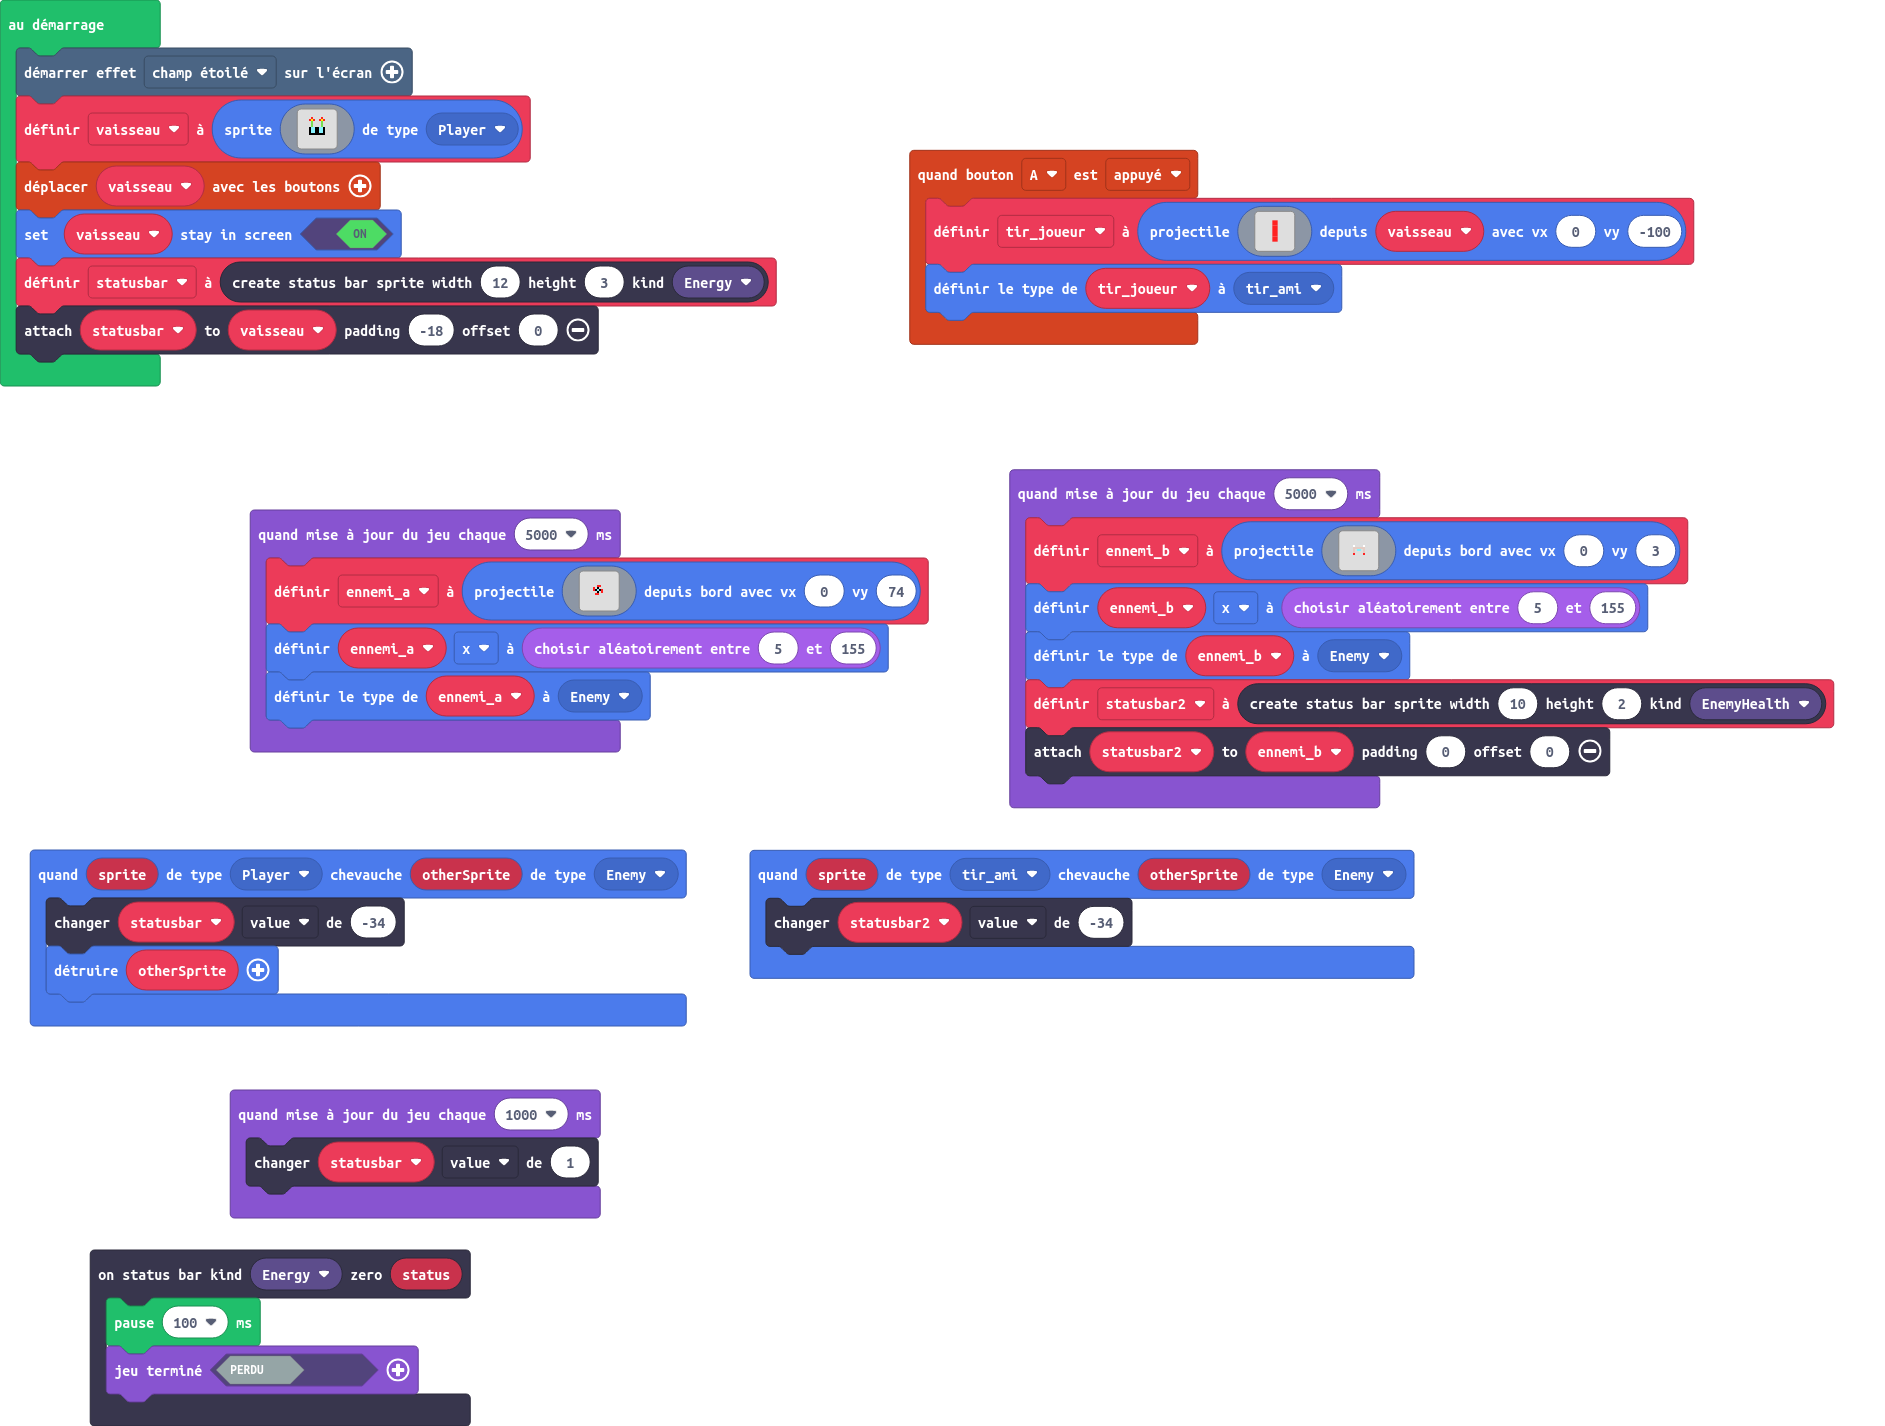
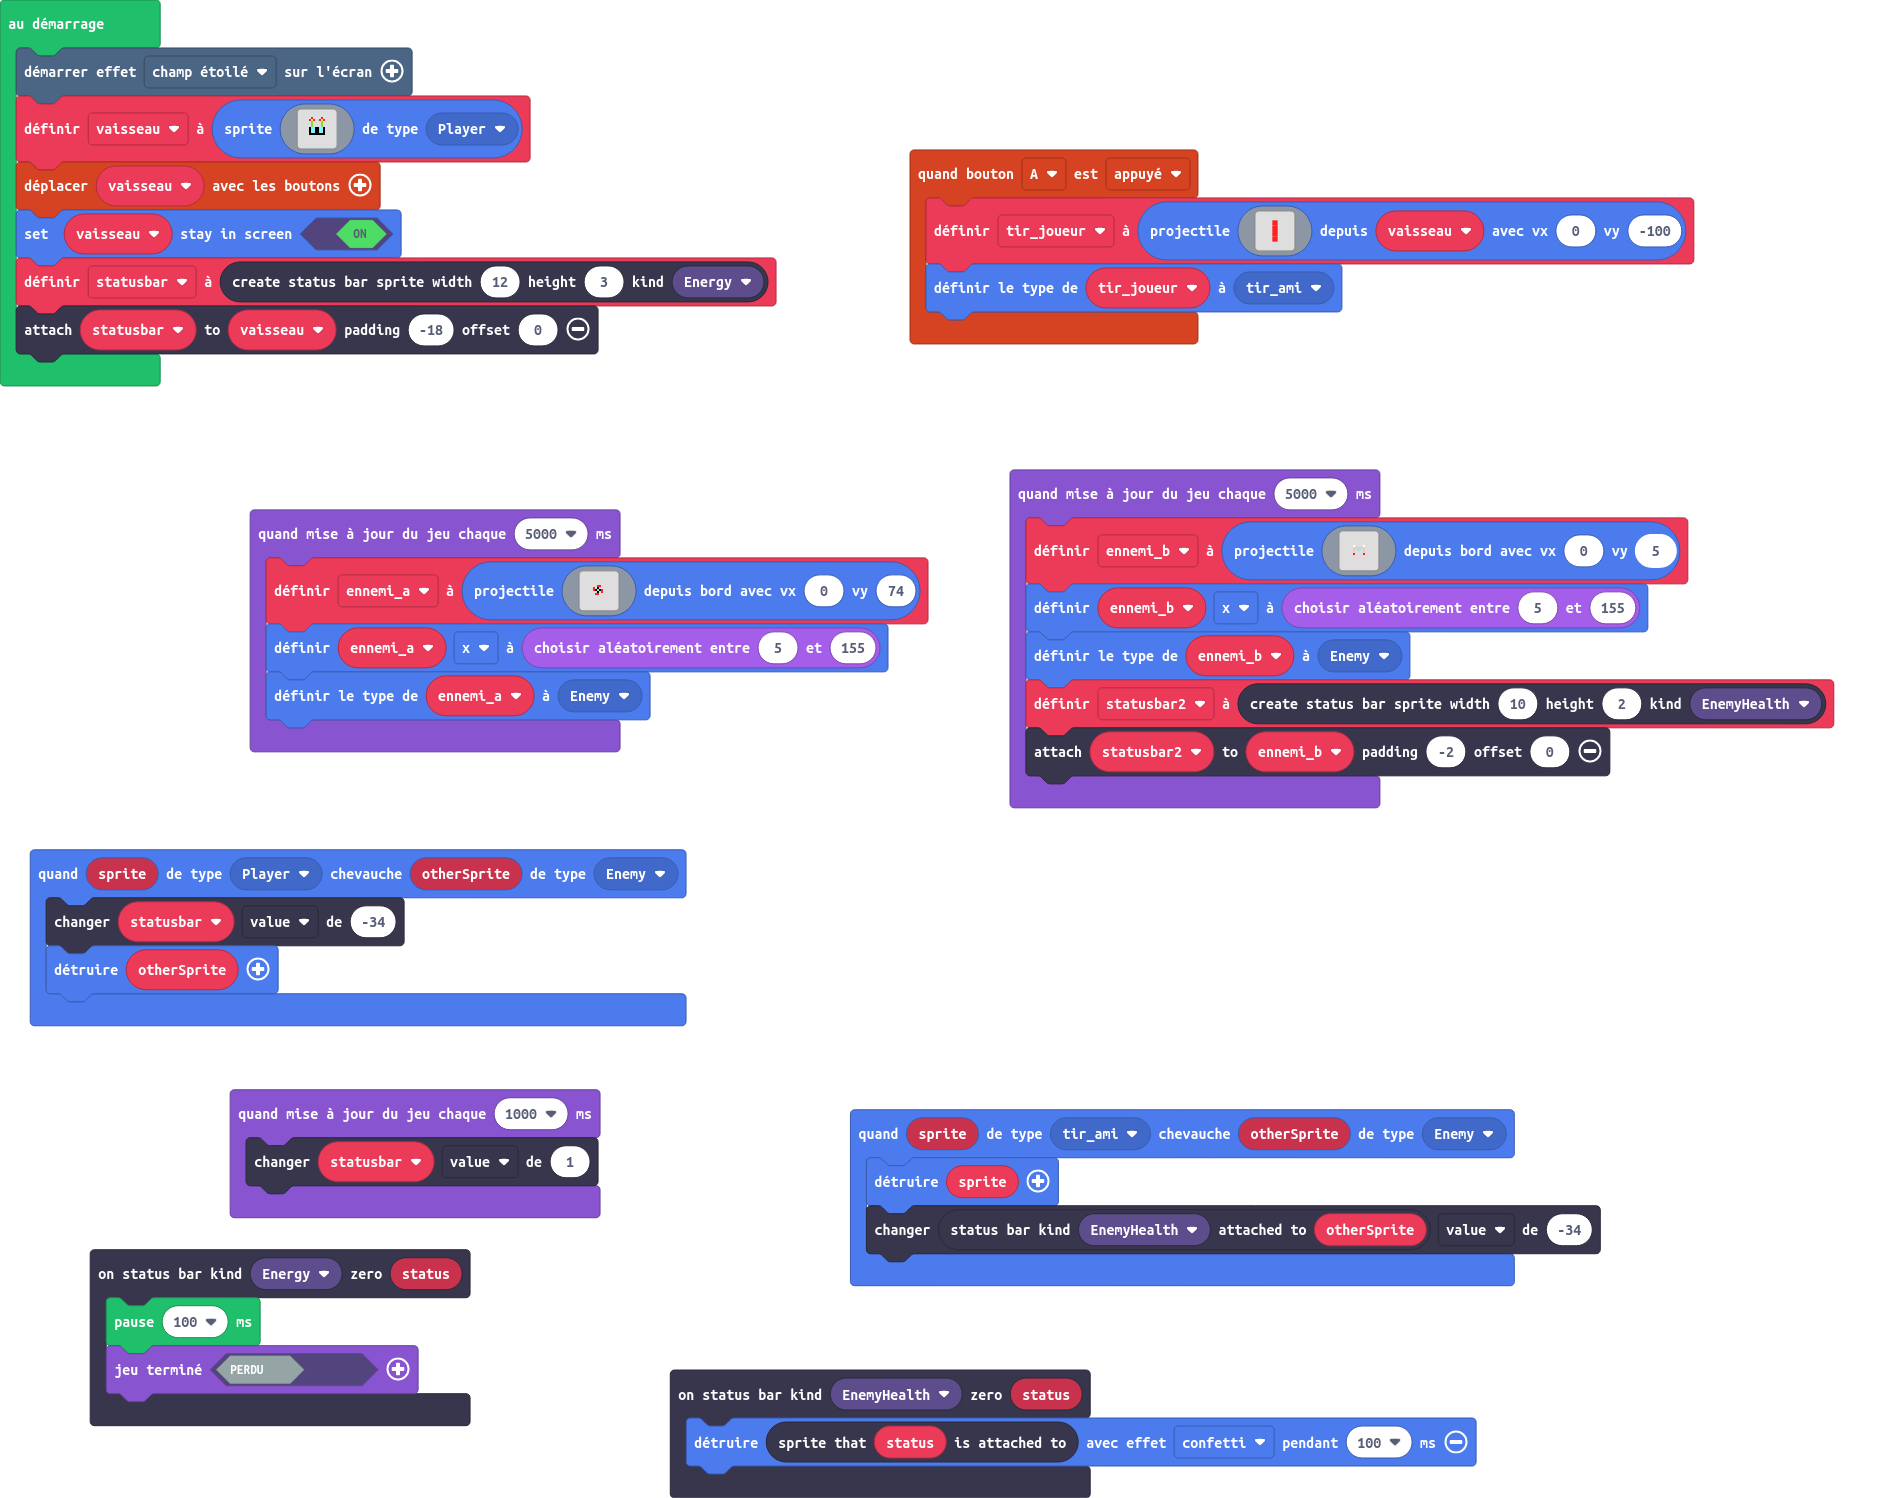
Mise à jour main.blocks, main.ts

diff --git a/main.ts b/main.ts
@@ -12,8 +12,12 @@ controller.A.onEvent(ControllerButtonEvent.Pressed, function () {
         `, vaisseau, 0, -100)
     tir_joueur.setKind(SpriteKind.tir_ami)
 })
+statusbars.onZero(StatusBarKind.EnemyHealth, function (status) {
+    status.spriteAttachedTo().destroy(effects.confetti, 100)
+})
 sprites.onOverlap(SpriteKind.tir_ami, SpriteKind.Enemy, function (sprite, otherSprite) {
-    statusbar2.value += -34
+    sprite.destroy()
+    statusbars.getStatusBarAttachedTo(StatusBarKind.EnemyHealth, otherSprite).value += -34
 })
 statusbars.onZero(StatusBarKind.Energy, function (status) {
     pause(100)
@@ -24,8 +28,8 @@ sprites.onOverlap(SpriteKind.Player, SpriteKind.Enemy, function (sprite, otherSp
     otherSprite.destroy()
 })
 let ennemi_a: Sprite = null
-let ennemi_b: Sprite = null
 let statusbar2: StatusBarSprite = null
+let ennemi_b: Sprite = null
 let tir_joueur: Sprite = null
 let statusbar: StatusBarSprite = null
 let vaisseau: Sprite = null
@@ -70,11 +74,11 @@ game.onUpdateInterval(5000, function () {
         . . . . . . . . . . . . . . . . 
         . . . . . . . . . . . . . . . . 
         . . . . . . . . . . . . . . . . 
-        `, 0, 3)
+        `, 0, 5)
     ennemi_b.x = randint(5, 155)
     ennemi_b.setKind(SpriteKind.Enemy)
     statusbar2 = statusbars.create(10, 2, StatusBarKind.EnemyHealth)
-    statusbar2.attachToSprite(ennemi_b, 0, 0)
+    statusbar2.attachToSprite(ennemi_b, -2, 0)
 })
 game.onUpdateInterval(5000, function () {
     ennemi_a = sprites.createProjectileFromSide(img`
